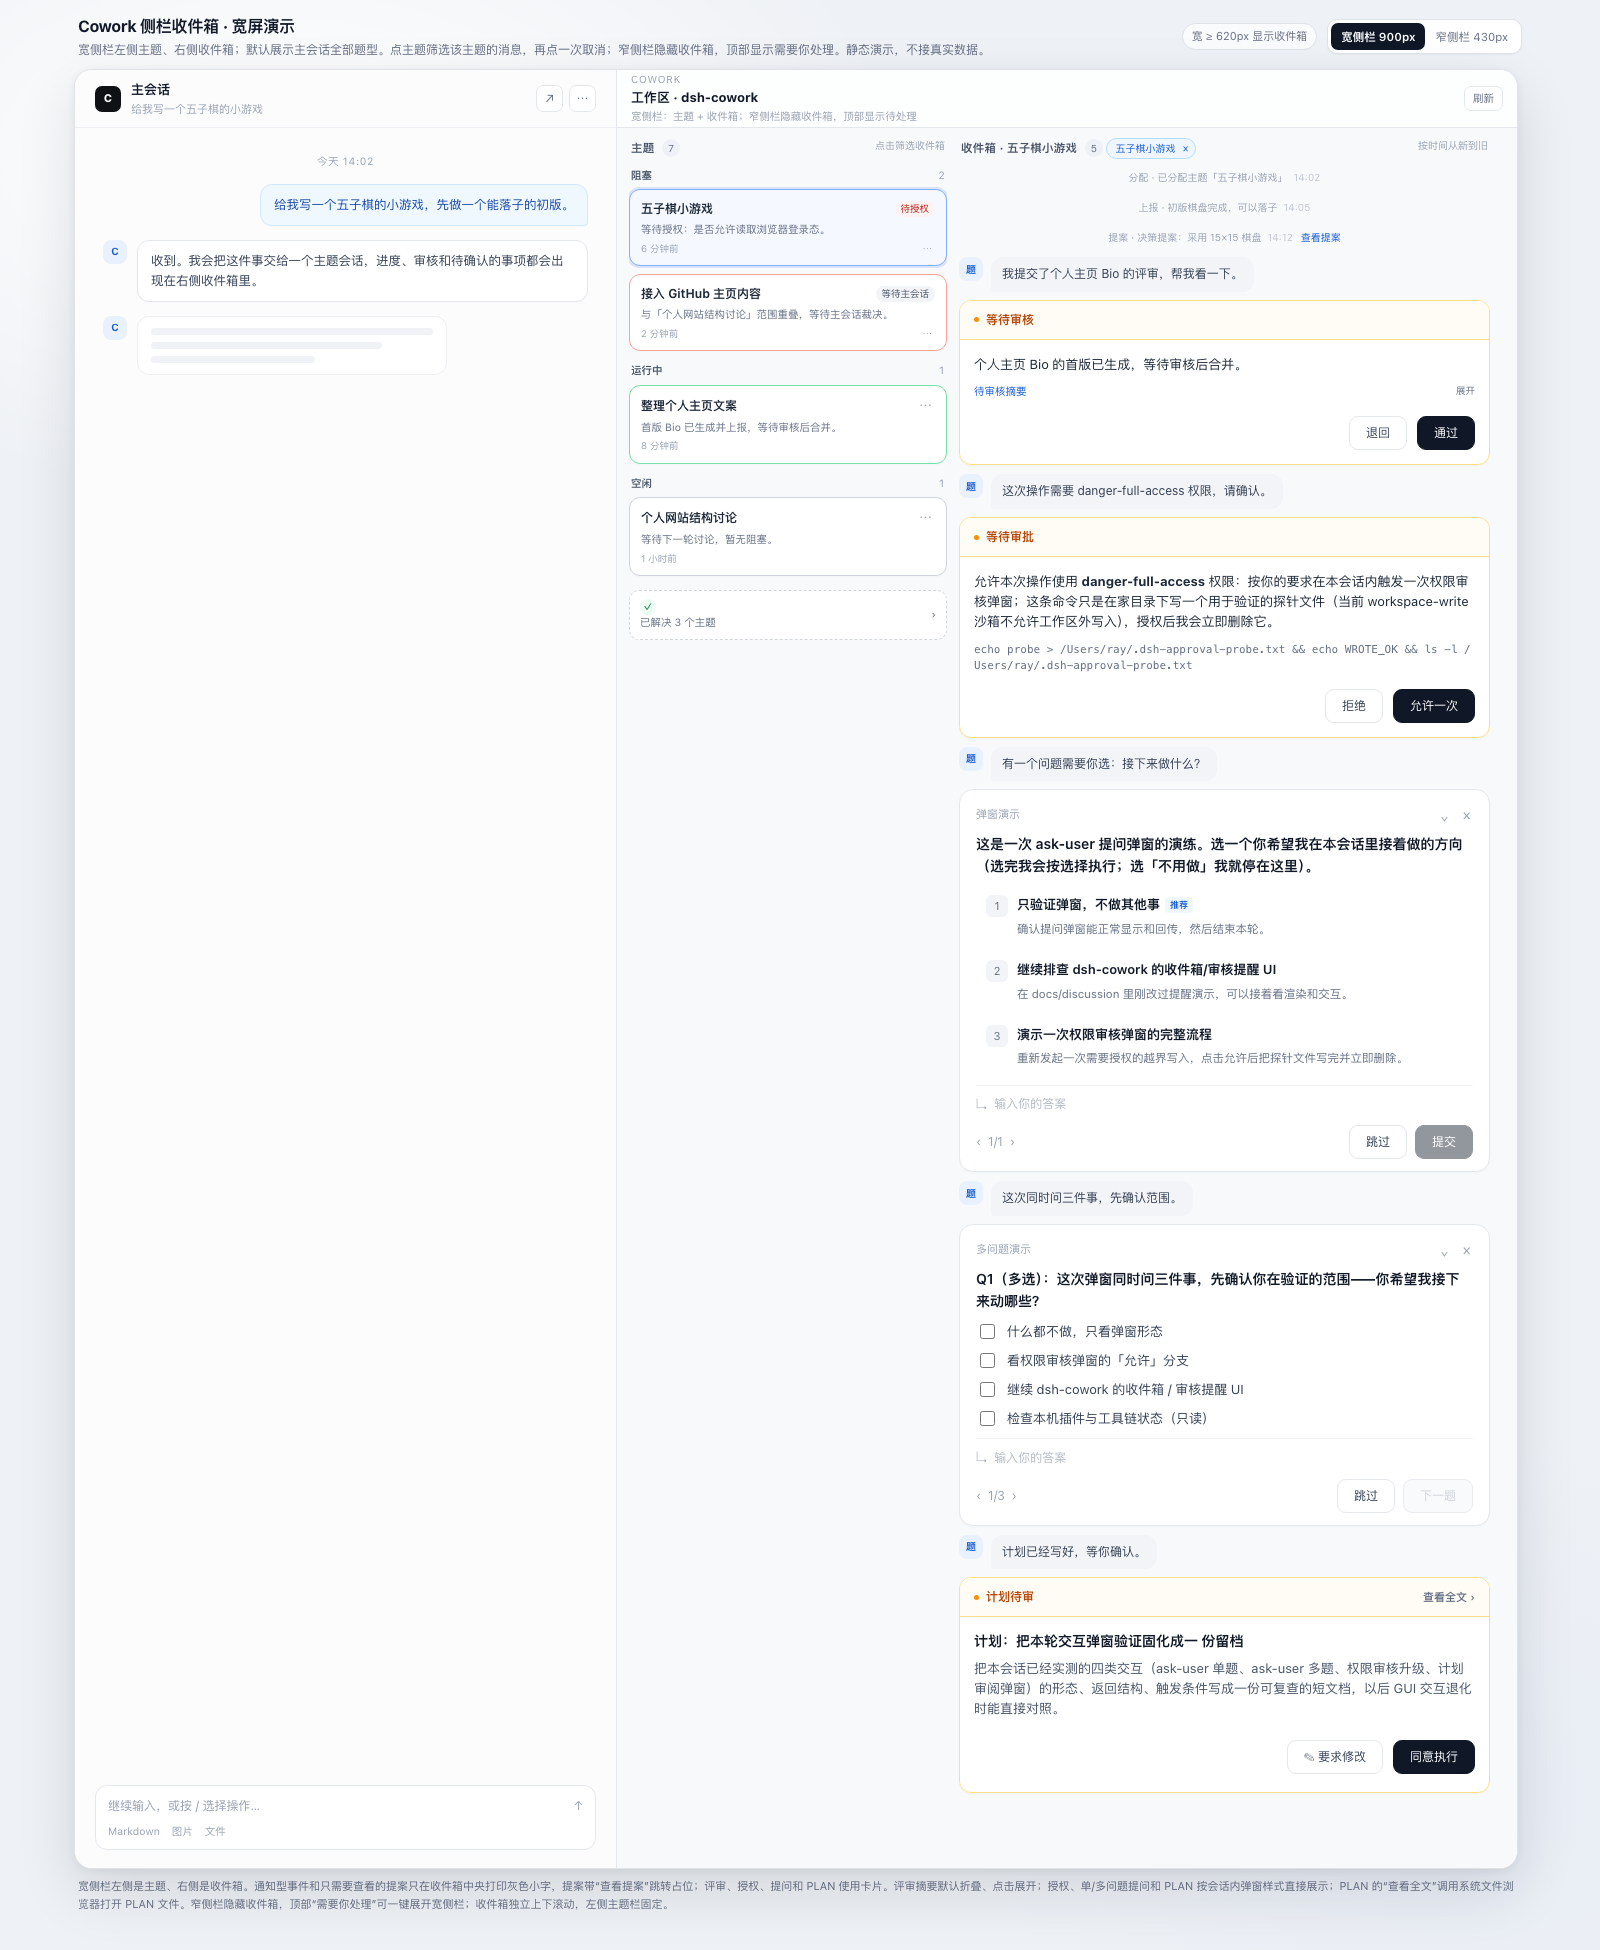
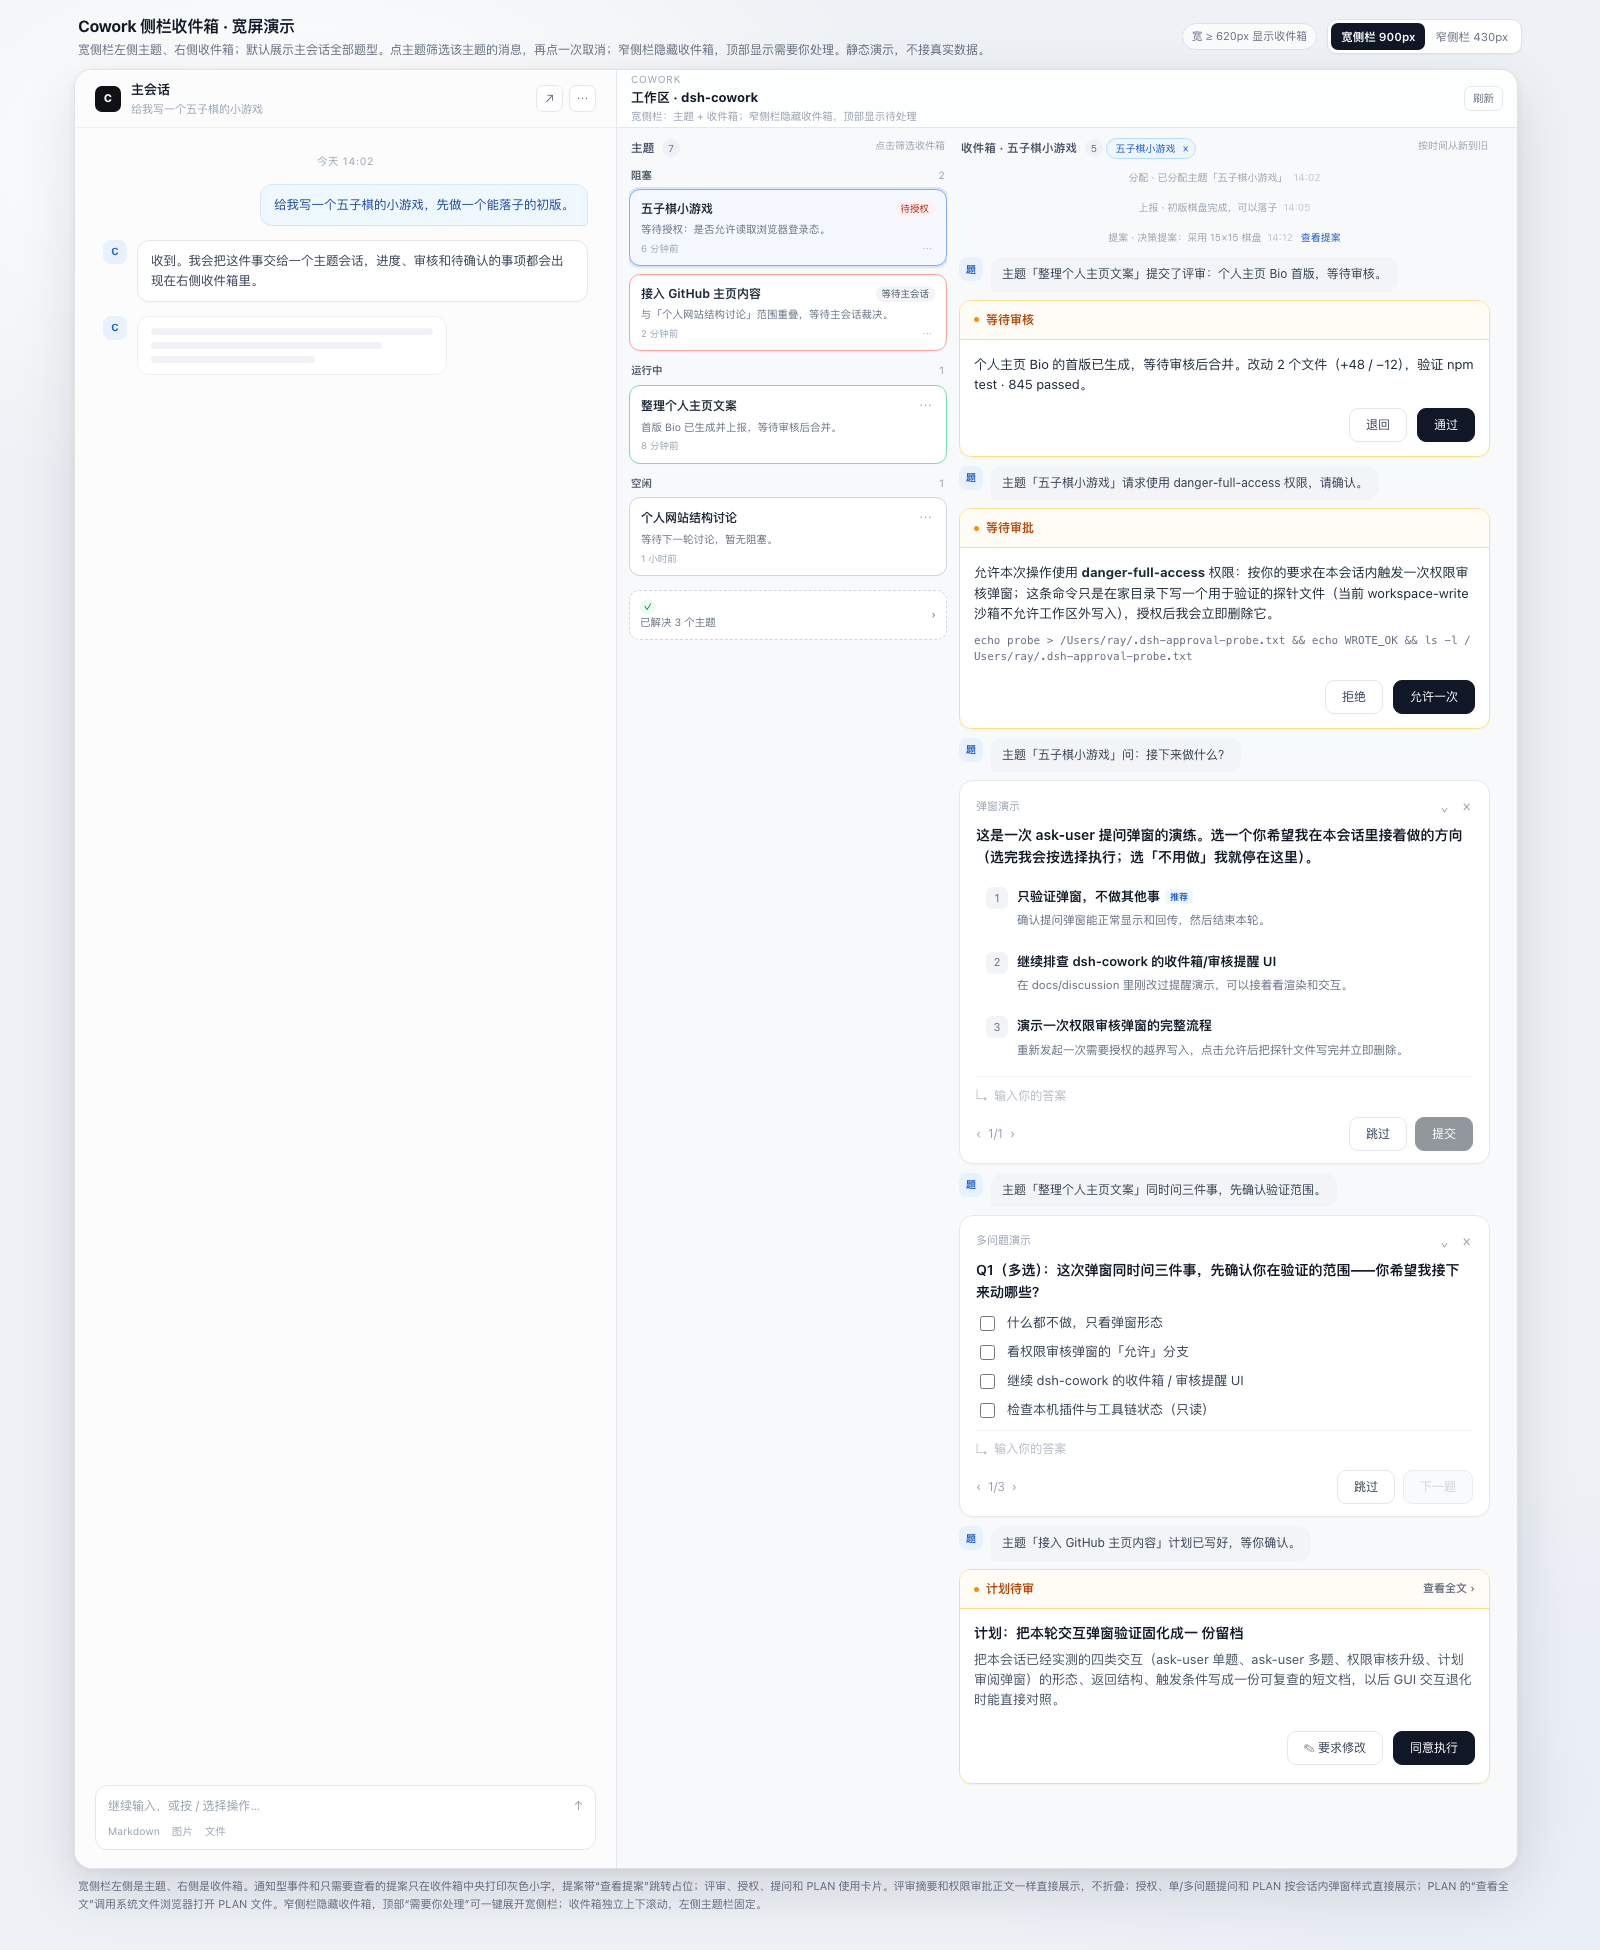
docs(topic-reminders): 补齐左侧会话上下文与右侧头像
左侧主题消息带上主题名和请求上下文；右侧用户回复保持气泡在前、头像在最右侧。更新默认、回复和筛选截图。

diff --git a/docs/discussion/topic-reminder-demo.html b/docs/discussion/topic-reminder-demo.html
@@ -875,7 +875,7 @@
 
   .request-thread { display: flex; flex-direction: column; gap: 8px; min-width: 0; }
   .thread-msg { display: flex; align-items: flex-start; gap: 8px; }
-  .thread-msg.out { flex-direction: row-reverse; }
+  .thread-msg.out { justify-content: flex-end; }
   .thread-avatar {
     width: 24px;
     height: 24px;
@@ -1094,7 +1094,7 @@
             </div>
 
             <div class="request-thread" data-topic="bio" data-topic-name="整理个人主页文案">
-              <div class="thread-msg in"><div class="thread-avatar">题</div><div class="thread-bubble">我提交了个人主页 Bio 的评审，帮我看一下。</div></div>
+              <div class="thread-msg in"><div class="thread-avatar">题</div><div class="thread-bubble">主题「整理个人主页文案」提交了评审：个人主页 Bio 首版，等待审核。</div></div>
             <article class="approval-card" data-kind="review" data-topic="bio" data-topic-name="整理个人主页文案" data-actionable="true">
               <div class="approval-head"><span class="approval-label"><span class="amber-dot"></span>等待审核</span></div>
               <div class="approval-body">
@@ -1110,7 +1110,7 @@
             </div>
 
             <div class="request-thread" data-topic="gomoku" data-topic-name="五子棋小游戏">
-              <div class="thread-msg in"><div class="thread-avatar">题</div><div class="thread-bubble">这次操作需要 danger-full-access 权限，请确认。</div></div>
+              <div class="thread-msg in"><div class="thread-avatar">题</div><div class="thread-bubble">主题「五子棋小游戏」请求使用 danger-full-access 权限，请确认。</div></div>
             <article class="approval-card" data-kind="authorization" data-topic="gomoku" data-topic-name="五子棋小游戏" data-actionable="true">
               <div class="approval-head"><span class="approval-label"><span class="amber-dot"></span>等待审批</span></div>
               <div class="approval-body">
@@ -1127,7 +1127,7 @@
             </div>
 
             <div class="request-thread" data-topic="gomoku" data-topic-name="五子棋小游戏">
-              <div class="thread-msg in"><div class="thread-avatar">题</div><div class="thread-bubble">有一个问题需要你选：接下来做什么？</div></div>
+              <div class="thread-msg in"><div class="thread-avatar">题</div><div class="thread-bubble">主题「五子棋小游戏」问：接下来做什么？</div></div>
             <article class="ask-card" data-kind="question" data-topic="gomoku" data-topic-name="五子棋小游戏" data-actionable="true">
               <div class="ask-card-head"><span>弹窗演示</span><span class="ask-head-icons">⌄&nbsp;&nbsp;×</span></div>
               <p class="ask-question">这是一次 ask-user 提问弹窗的演练。选一个你希望我在本会话里接着做的方向（选完我会按选择执行；选「不用做」我就停在这里）。</p>
@@ -1159,7 +1159,7 @@
             </div>
 
             <div class="request-thread" data-topic="bio" data-topic-name="整理个人主页文案">
-              <div class="thread-msg in"><div class="thread-avatar">题</div><div class="thread-bubble">这次同时问三件事，先确认范围。</div></div>
+              <div class="thread-msg in"><div class="thread-avatar">题</div><div class="thread-bubble">主题「整理个人主页文案」同时问三件事，先确认验证范围。</div></div>
             <article class="ask-card" data-kind="question" data-topic="bio" data-topic-name="整理个人主页文案" data-actionable="true">
               <div class="ask-card-head"><span>多问题演示</span><span class="ask-head-icons">⌄&nbsp;&nbsp;×</span></div>
               <p class="ask-question">Q1（多选）：这次弹窗同时问三件事，先确认你在验证的范围——你希望我接下来动哪些？</p>
@@ -1183,7 +1183,7 @@
             </div>
 
             <div class="request-thread" data-topic="github" data-topic-name="接入 GitHub 主页内容">
-              <div class="thread-msg in"><div class="thread-avatar">题</div><div class="thread-bubble">计划已经写好，等你确认。</div></div>
+              <div class="thread-msg in"><div class="thread-avatar">题</div><div class="thread-bubble">主题「接入 GitHub 主页内容」计划已写好，等你确认。</div></div>
             <article class="plan-card" data-kind="authorization" data-topic="github" data-topic-name="接入 GitHub 主页内容" data-actionable="true">
               <div class="plan-head">
                 <span><span class="amber-dot"></span>计划待审</span>
